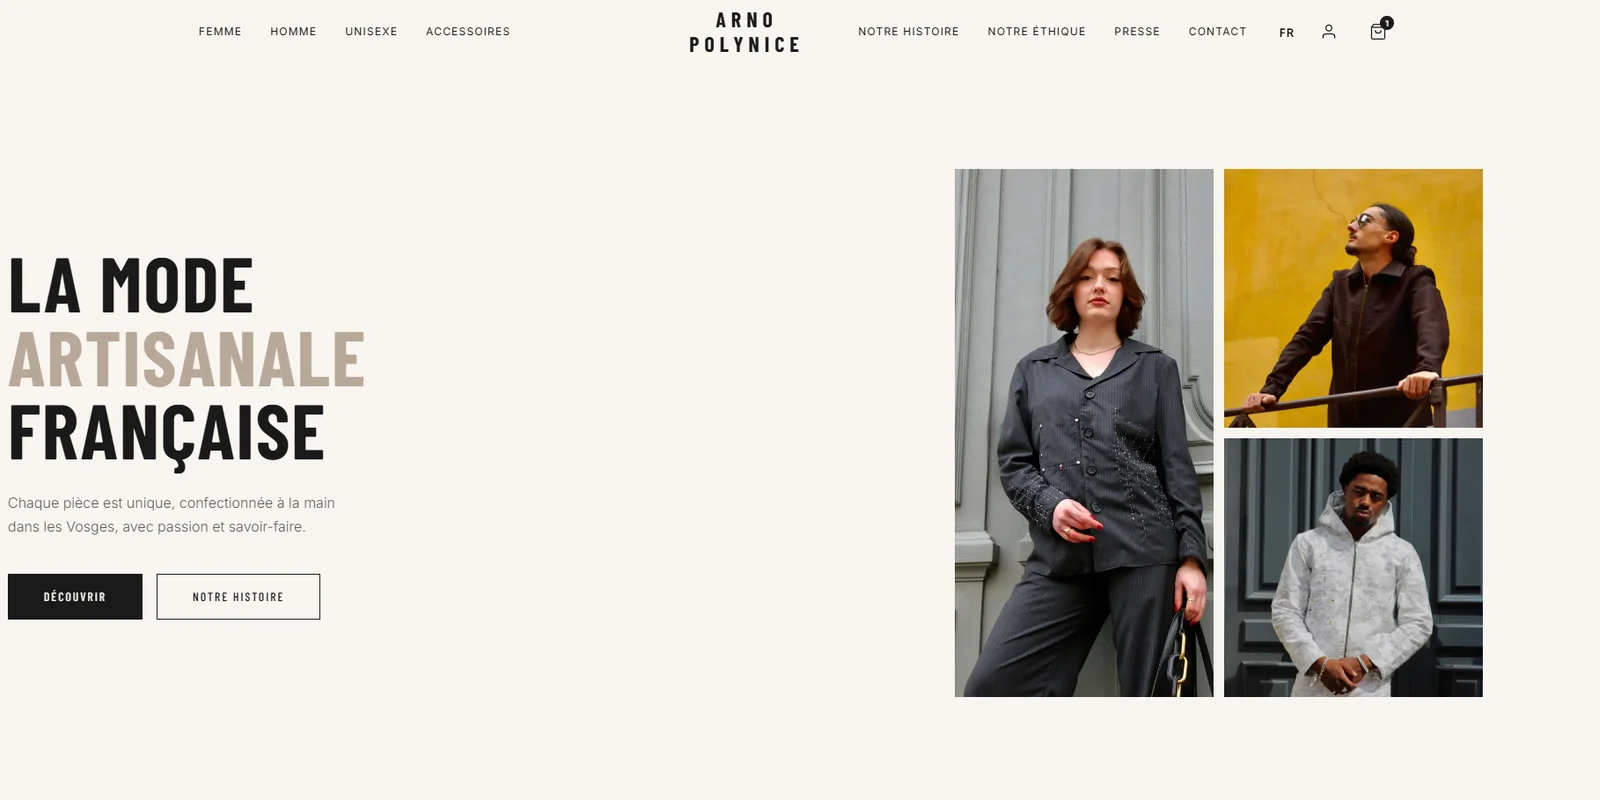
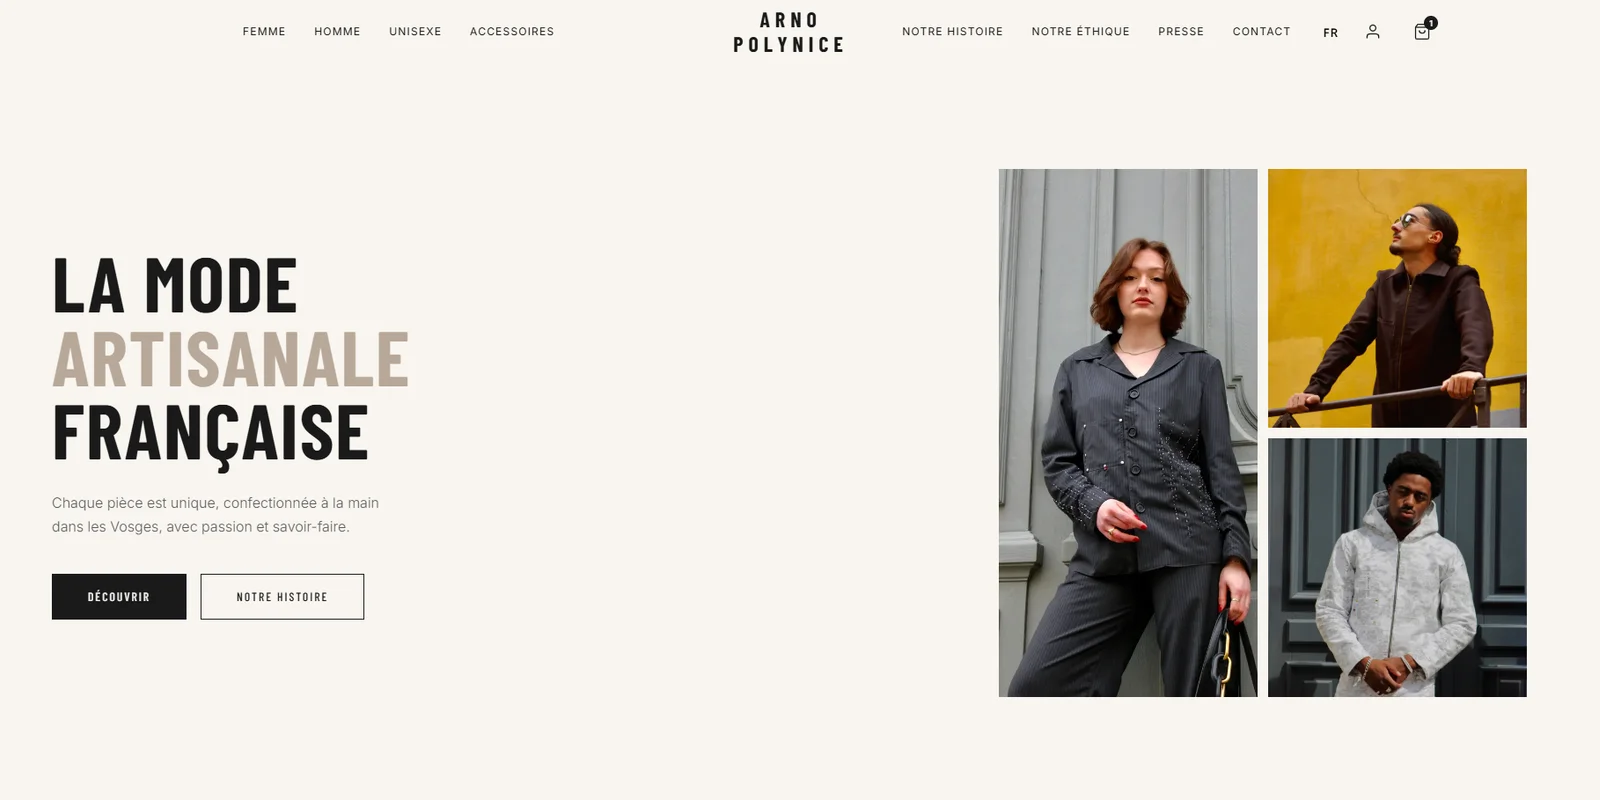
fix(portfolio): ancre les captures en haut-gauche + bust cache
Diagnostic complet :
- Les PNG sources etaient en ratio 2.09-2.20 (1917x909, 1901x911, 1917x872)
- Le target sharp etait 1600x800 (ratio 2.00)
- Excedent lateral 99-173 px crope au CENTRE par position 'top'
  => sur Arno et Orient Relais, le texte hero (sur la gauche) etait
     coupe de 1-3 lettres ('ODE SANALE CAISE' vs 'MODE ARTISANALE
     FRANCAISE')
- Bodystart marchait par chance (sujet centre)

Fix : sharp position 'left top' (au lieu de 'top').
- Ancre au coin haut-gauche : on garde 100% du cote gauche
- L'excedent est coupe a droite uniquement
- La navbar reste preservee (top)

Bust cache : ajout '?v=2' aux URLs image dans projects.ts.
Necessaire parce que vercel.json met les .webp en cache 1 an immutable.
Sans ce bust, les navigateurs ayant deja visite la page continueraient
a afficher l'ancienne version (crop centre) meme apres deploiement.

diff --git a/src/data/projects.ts b/src/data/projects.ts
@@ -14,7 +14,7 @@ export const projects: Project[] = [
         title: "Arno Polynice",
         description:
             "Conception complète d'un e-commerce pour une marque de vêtements sur mesure fait main. Catalogue produits, paiement sécurisé et tunnel de commande optimisé.",
-        image: "/projects/arno-polynice.webp",
+        image: "/projects/arno-polynice.webp?v=2",
         url: "https://www.arno-polynice.com/",
         technologies: ["React", "Shopify", "Resend"],
         category: "E-commerce",
@@ -24,7 +24,7 @@ export const projects: Project[] = [
         title: "Orient Relais",
         description:
             "Refonte premium d'un e-commerce de produits bio. Modernisation complète de l'expérience utilisateur, optimisation du tunnel d'achat et performance maximale.",
-        image: "/projects/orient-relais.webp",
+        image: "/projects/orient-relais.webp?v=2",
         url: "https://www.orient-relais.com/",
         technologies: ["React", "WooCommerce", "Stripe"],
         category: "E-commerce",
@@ -34,7 +34,7 @@ export const projects: Project[] = [
         title: "Bodystart Nutrition",
         description:
             "Boutique en ligne de compléments alimentaires, prolongement digital de la boutique physique. Catalogue, paiement et logistique synchronisés.",
-        image: "/projects/bodystart.webp",
+        image: "/projects/bodystart.webp?v=2",
         url: "https://bodystart.vercel.app/",
         technologies: ["React", "Shopify", "Resend"],
         category: "E-commerce",